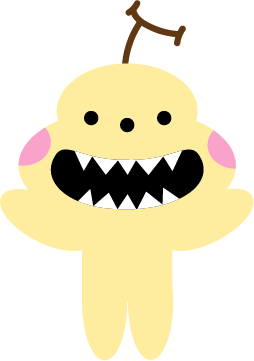
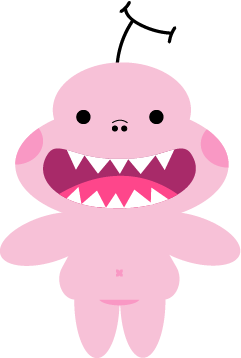
latest date

diff --git a/src/app/tab3/tab3.page.ts b/src/app/tab3/tab3.page.ts
@@ -2,66 +2,239 @@ import { Component } from '@angular/core';
 
 import Phaser from 'phaser';
 
+//todo: 
+/**
+ * 1. btn 
+ * 2. event 
+ * 3. health bar
+ * 4. stream event 
+ */
+
 class GameScene extends Phaser.Scene {
+  monie:Phaser.GameObjects.Sprite;
+  graphics: Phaser.GameObjects.Graphics;
+  health;
+  hUnger;
+  mood;
+  healthText: Phaser.GameObjects.Text;
+  hUngerText: Phaser.GameObjects.Text;
+  moodText: Phaser.GameObjects.Text;
   constructor(config) {
     super(config);
   }
 
   preload() {
     this.load.image('bg', 'assets/img/monie_bg.png');
-    //this.load.spritesheet('brawler', 'assets/animations/brawler48x48.png', { frameWidth: 48, frameHeight: 48 });
+    this.load.image('shadow', 'assets/img/monie_shadow.png');
+    this.load.image('feed', 'assets/icon/feed.png');
+    this.load.image('play', 'assets/icon/play.png');
     this.load.path = 'assets/animations/';
     this.load.image('happy1', 'happy-1.png');
     this.load.image('happy2', 'happy-2.png');
+    this.load.image('happy3', 'happy-3.png');
+    this.load.image('happy4', 'happy-4.png');
+    this.load.image('eat1', 'eat-1.png');
+    this.load.image('eat2', 'eat-2.png');
+    this.load.image('eat3', 'eat-3.png');
+    this.load.image('eat4', 'eat-4.png');
     this.load.image('sad1', 'sad-1.png');
     this.load.image('sad2', 'sad-2.png');
+    this.load.image('sad3', 'sad-3.png');
+    this.load.image('sad4', 'sad-4.png');
+    this.load.image('sleep1', 'sleep-1.png');
+    this.load.image('sleep2', 'sleep-2.png');
+    this.load.image('sleep3', 'sleep-3.png');
   }
 
   create() {
-    this.add.image(0, 0, 'bg');
-    //const current = this.add.text(48, 460, 'Playing: walk', { color: '#00ff00' });
+    this.add.image(200, 360, 'bg').setScale(0.6);
+    this.graphics = this.add.graphics();
+    this.healthText = this.add.text(10, 10, 'health:', { font: '18px Arial', color: '#000000' });
+    this.hUngerText = this.add.text(10, 35, 'hunger:', { font: '18px Arial', color: '#000000' });
+    this.moodText = this.add.text(10, 60, 'mood:', { font: '18px Arial', color: '#000000' });
+
+    var feed = this.add.image(window.innerWidth - 50, window.innerHeight - 230, 'feed');
+    // feed.setScale(0.9);
+    var play = this.add.image(window.innerWidth - 50, window.innerHeight - 150, 'play');
+    // play.setScale(0.9);
+    feed.setInteractive();
+    play.setInteractive();
+
+    feed.on('pointerdown', this.clickHandler, { context: this, action: 'feed' });
+    play.on('pointerdown', this.clickHandler, { context: this, action: 'play' });
+
+    this.events.on('animate', this.animateHandler, this);
+    this.events.on('interact', this.interactHandler, this);
 
     // Animation set
 
     this.anims.create({
-      key: 'smile',
+      key: 'idle',
       frames: [
         { key: 'happy1' },
-        { key: 'happy2' },
         { key: 'happy1' },
-        { key: 'happy2', duration: 50 }
+        { key: 'happy1' },
+        { key: 'happy1', duration: 50 }
       ],
       frameRate: 8,
       repeat: -1
     });
 
     this.anims.create({
-      key: 'cry',
+      key: 'feed',
       frames: [
-        { key: 'sad1' },
-        { key: 'sad2' },
-        { key: 'sad1' },
-        { key: 'sad2', duration: 50 }
+        { key: 'eat1' },
+        { key: 'eat2' },
+        { key: 'eat3' },
+        { key: 'eat4', duration: 100 }
       ],
+      yoyo: true,
+      frameRate: 8,
+      repeat: 2
+    });
+
+    this.anims.create({
+      key: 'play',
+      frames: [
+        { key: 'happy1' },
+        { key: 'happy2' },
+        { key: 'happy3' },
+        { key: 'happy4', duration: 100 }
+      ],
+      yoyo: true,
+      frameRate: 8,
+      repeat: 2
+    });
+
+    this.anims.create({
+      key: 'sleep',
+      frames: [
+        { key: 'sleep1' , duration: 100},
+        { key: 'sleep2' , duration: 100},
+        { key: 'sleep3' , duration: 100},
+        { key: 'sleep1', duration: 200}
+      ],
+      yoyo: true,
       frameRate: 8,
       repeat: -1
     });
 
-    const keys = ['smile', 'cry'];
+    this.add.image(window.innerWidth / 2, window.innerHeight / 2 + 220, 'shadow');
+    this.monie = this.add.sprite(window.innerWidth / 2, window.innerHeight / 2 + 70, 'idle');
+    this.monie.setScale(window.innerWidth / (218 * 2.2));
+    this.monie.play('sleep');
 
-    const cody = this.add.sprite(window.innerWidth / 2, window.innerHeight / 2, 'smile');
-    cody.setScale(1);
-    cody.play('smile');
+    
 
-    let c = 0;
-    this.input.on('pointerdown', function () {
-      c++;
-      if (c === keys.length) {
-        c = 0;
-      }
-      cody.play(keys[c]);
-    });
+    this.health = 80;
+    this.hUnger = 70;
+    this.mood = 65
+    this.setBarVal('health', this.health);
+    this.setBarVal('hUnger', this.hUnger);
+    this.setBarVal('mood', this.mood);
   }
+
+  animateHandler(arg0: string, handler: any, arg2: this) {
+    this.monie.play(arg0);
+  }
+
+  interactHandler(arg0: string, handler: any, arg2: this) {
+    console.log(arg0+ "interact")
+    switch (arg0) {
+      case 'feed':
+        this.tweens.addCounter({
+          from: this.hUnger,
+          to: this.hUnger + 5,
+          duration: 500,
+          ease: Phaser.Math.Easing.Sine.InOut,
+          onUpdate: tweens => {
+            const val = tweens.getValue();
+            this.setBarVal('hUnger', val)
+          }
+        })
+        this.hUnger = this.hUnger + 5;
+
+        this.tweens.addCounter({
+          from: this.health,
+          to: this.health + 5,
+          duration: 500,
+          ease: Phaser.Math.Easing.Sine.InOut,
+          onUpdate: tweens => {
+            const val = tweens.getValue();
+            this.setBarVal('health', val)
+          }
+        })
+        this.health = this.health + 5;
+        break;
+      case 'play':
+        this.tweens.addCounter({
+          from: this.mood,
+          to: this.mood + 5,
+          duration: 500,
+          ease: Phaser.Math.Easing.Sine.InOut,
+          onUpdate: tweens => {
+            const val = tweens.getValue();
+            this.setBarVal('mood', val)
+          }
+        })
+        this.mood = this.mood + 5;
+
+        this.tweens.addCounter({
+          from: this.health,
+          to: this.health + 5,
+          duration: 500,
+          ease: Phaser.Math.Easing.Sine.InOut,
+          onUpdate: tweens => {
+            const val = tweens.getValue();
+            this.setBarVal('health', val)
+          }
+        })
+        this.health = this.health + 2;
+        break;
+      default:
+        return;
+    }
+  }
+
+  clickHandler(arg0: string, clickHandler: any, context: string) {
+    let that = this as any;
+    that.context.events.emit('animate', that.action);
+    that.context.events.emit('interact', that.action);
+  }
+
+  setBarVal(type, val) {
+    const width = 200;
+    const percent = Phaser.Math.Clamp(val, 0, 100) / 100;
+    console.log(percent);
+    switch (type) {
+      case 'health':
+        //this.graphics.clear();
+        this.healthText.setText('health:' + percent * 100 + "%");
+        this.graphics.fillStyle(0x808080);
+        this.graphics.fillRoundedRect(10, 10, width, 20, 5);
+        this.graphics.fillStyle(0x00ff00);
+        this.graphics.fillRoundedRect(10, 10, width * percent, 20, 5);
+        break;
+      case 'hUnger':
+        //this.graphics.clear();
+        this.hUngerText.setText('hunger:' + percent * 100 + "%");
+        this.graphics.fillStyle(0x808080);
+        this.graphics.fillRoundedRect(10, 35, width, 20, 5);
+        this.graphics.fillStyle(0xF1C232);
+        this.graphics.fillRoundedRect(10, 35, width * percent, 20, 5);
+        break;
+      case 'mood':
+        //this.graphics.clear();
+        this.moodText.setText('mood:' + percent * 100 + "%");
+        this.graphics.fillStyle(0x808080);
+        this.graphics.fillRoundedRect(10, 60, width, 20, 5);
+        this.graphics.fillStyle(0x6FA8DC);
+        this.graphics.fillRoundedRect(10, 60, width * percent, 20, 5);
+      default:
+        return;
+    }
+  }
+
 }
 
 @Component({
@@ -83,6 +256,9 @@ export class Tab3Page {
         default: 'arcade'
       },
       parent: 'game',
+      scale: {
+        mode: Phaser.Scale.ENVELOP
+      },
       scene: GameScene
     };
   }

diff --git a/src/app/tab3/tab3.page.html b/src/app/tab3/tab3.page.html
@@ -1,3 +1,3 @@
-<ion-content [fullscreen]="true">
+<ion-content>
   <div id="game"></div>
 </ion-content>
